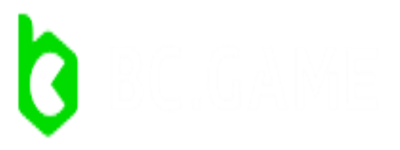
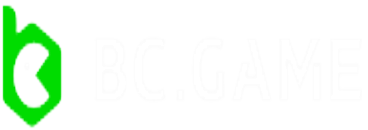
website updates

Changed region(s): [[0.0, 0.0308, 0.2092, 0.9846]]

diff --git a/css/sponsors.css b/css/sponsors.css
@@ -114,7 +114,7 @@ body{
 }
 
 .sponsor-img img {
-  width: 80%;
+  width: 85%;
   height: auto; /* Ensures all images have the same height */
   object-fit: contain; /* Ensures images don't get stretched */
 }
